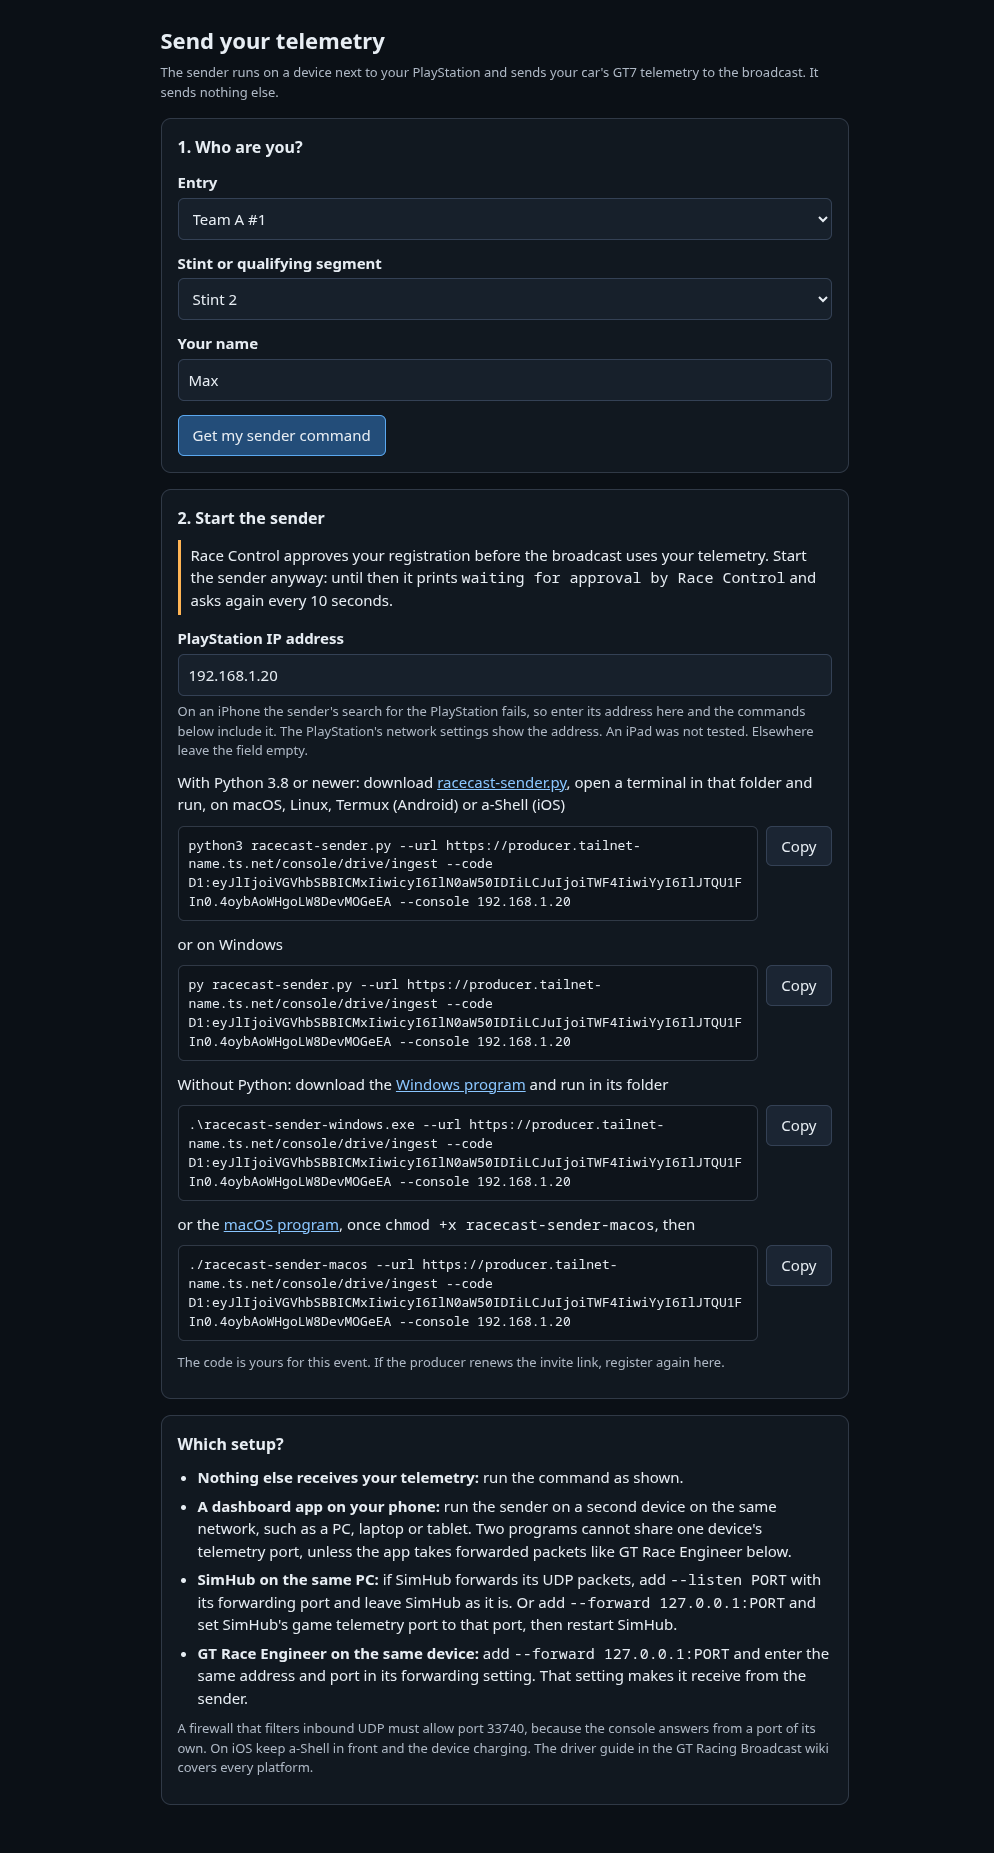
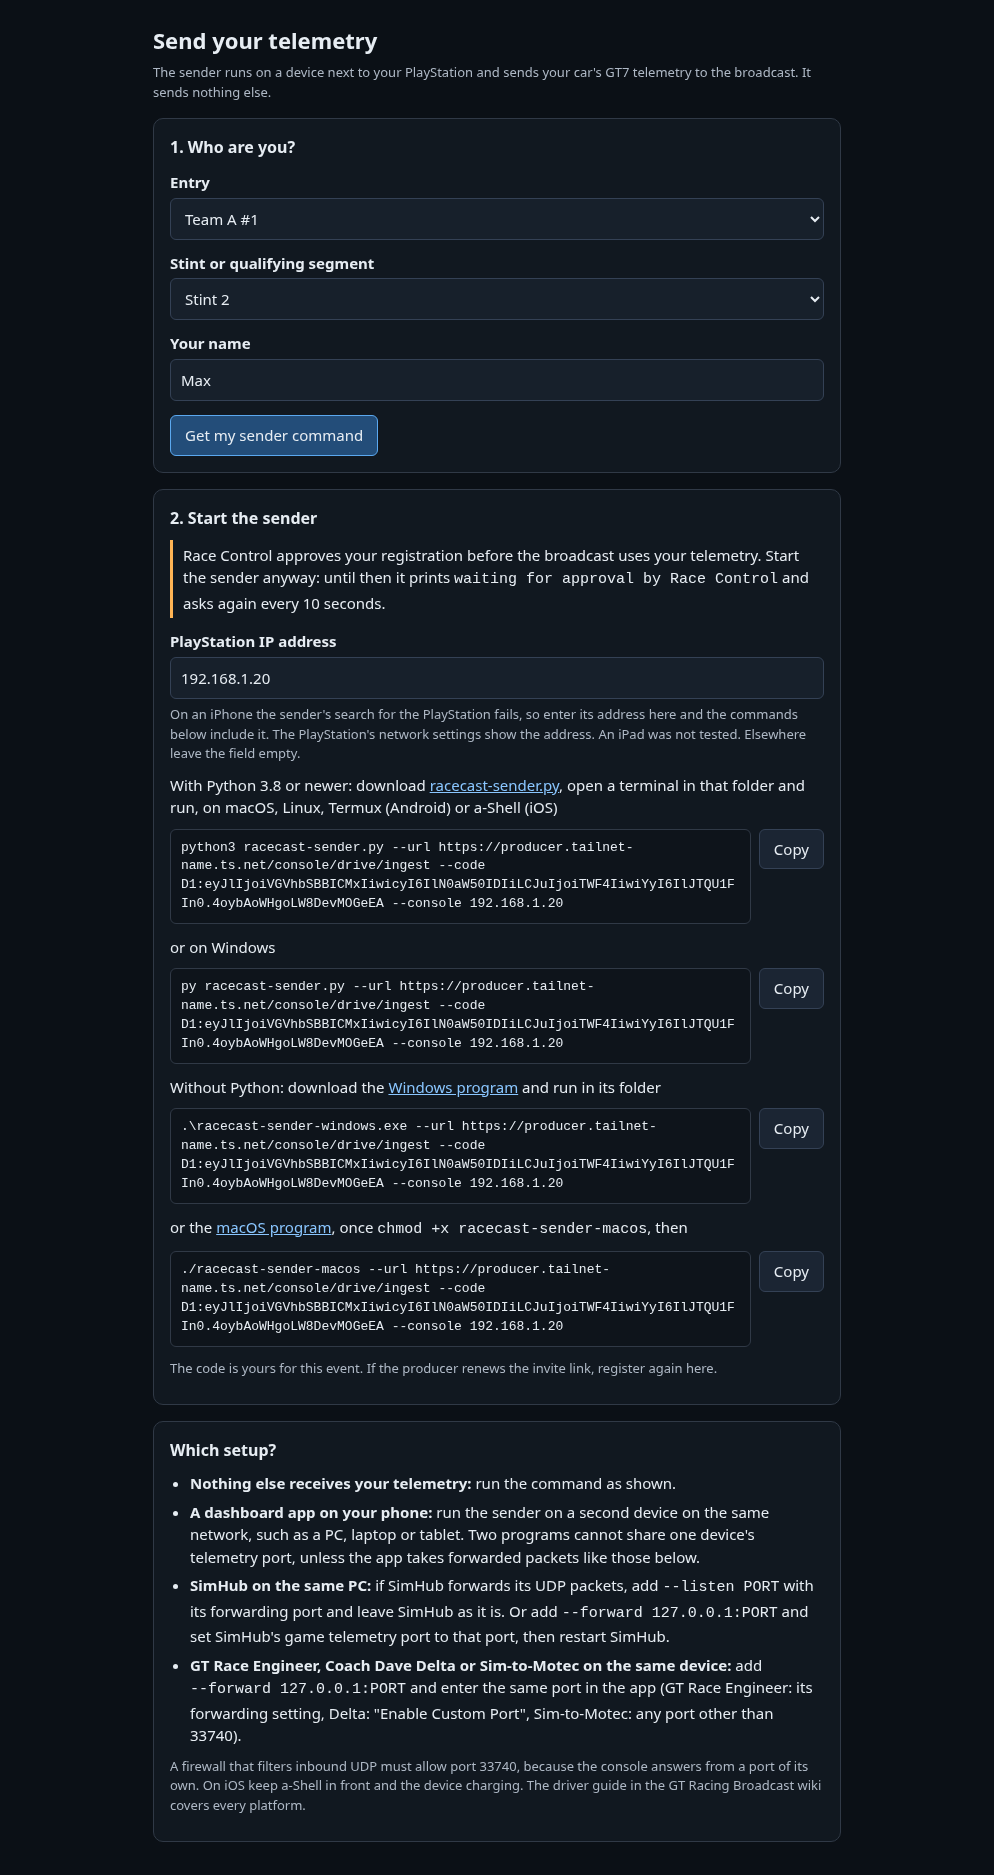
docs(telemetry): cover the common GT7 telemetry apps instead of polling drivers
The probe stage 2 runbook replaces the driver poll with a table of the apps drivers run
next to the sender, and the driver guide, the invite page and the driver deck name the
apps that take forwarded packets on the same device (Coach Dave Delta, Sim-to-Motec).
Heartbeat C (368 bytes) shares the B key and appends to the '~' fields; a test pins
that it decodes whole, and the sender's size comment says 368.

diff --git a/src/docs/slides/driver.html b/src/docs/slides/driver.html
@@ -49,13 +49,13 @@ Note: To get your command, open the invite link the producer shares for the even
 On one device only one program can receive GT7 telemetry. Pick the line that matches what you already run:
 
 - **Nothing else receives it:** run the command as shown, on a PC, laptop, tablet or phone.
-- **A dashboard app on your phone:** run the sender on a **second device** on the same network, unless the app takes forwarded packets like GT Race Engineer.
+- **A dashboard app on your phone:** run the sender on a **second device** on the same network, unless the app takes forwarded packets like those below.
 - **SimHub on the same PC:** add `--listen PORT` with SimHub's forwarding port, or `--forward 127.0.0.1:PORT` with SimHub's game telemetry port moved there and SimHub restarted.
-- **GT Race Engineer on the same device:** add `--forward 127.0.0.1:PORT` and enter the same address and port in its telemetry forwarding.
+- **GT Race Engineer, Coach Dave Delta or Sim-to-Motec on the same device:** add `--forward 127.0.0.1:PORT` and enter the same port in the app.
 
 iPhone: type the PlayStation's IP into the invite page, and the command ends with `--console <PlayStation IP>`. An iPad was not tested. No console found elsewhere? Add `--console <PlayStation IP>`.
 
-Note: GT7 sends telemetry to every device that asks, but on one device only one program can receive it. So pick the line that matches what you already run. If nothing else receives your telemetry, run the command as shown, on a PC, a laptop, a tablet or a phone. If you use a dashboard app on your phone, run the sender on a second device on the same network, because it cannot share the phone with the app. An app that takes forwarded packets, like GT Race Engineer, is the exception. With SimHub on the same PC there are two ways. The sender can read what SimHub forwards, with the listen option and SimHub's forwarding port, and SimHub stays as it is. Or the sender forwards to SimHub, with the forward option and SimHub's game telemetry port moved to that port, and SimHub restarted. GT Race Engineer's forwarding setting, labelled Telemetrie Forwarding in the German app, receives telemetry. So the sender forwards to it with the forward option and the same address and port in the app. The sender finds the PlayStation by itself, except on an iPhone, where its search fails with No route to host. An iPad was not tested. On an iPhone, type the PlayStation's IP address into the invite page right after registering, and the command includes it. If the sender reports elsewhere that no console was found, add the console option with the PlayStation's IP address.
+Note: GT7 sends telemetry to every device that asks, but on one device only one program can receive it. So pick the line that matches what you already run. If nothing else receives your telemetry, run the command as shown, on a PC, a laptop, a tablet or a phone. If you use a dashboard app on your phone, run the sender on a second device on the same network, because it cannot share the phone with the app. An app that takes forwarded packets, like GT Race Engineer, is the exception. With SimHub on the same PC there are two ways. The sender can read what SimHub forwards, with the listen option and SimHub's forwarding port, and SimHub stays as it is. Or the sender forwards to SimHub, with the forward option and SimHub's game telemetry port moved to that port, and SimHub restarted. GT Race Engineer's forwarding setting, labelled Telemetrie Forwarding in the German app, receives telemetry. So the sender forwards to it with the forward option and the same address and port in the app. Coach Dave Delta with its custom port and Sim-to-Motec on a port other than 33740 work the same way. The sender finds the PlayStation by itself, except on an iPhone, where its search fails with No route to host. An iPad was not tested. On an iPhone, type the PlayStation's IP address into the invite page right after registering, and the command includes it. If the sender reports elsewhere that no console was found, add the console option with the PlayStation's IP address.
 </script></section>
 
 <section data-markdown><script type="text/template">

diff --git a/src/console/drive.html b/src/console/drive.html
@@ -26,6 +26,7 @@ input + .dim{margin-top:6px}
 #consoleErr{margin:0 0 10px}
 .note{border-left:3px solid var(--warn);padding:4px 0 4px 10px}
 .cmd{display:flex;gap:8px;align-items:flex-start;margin:6px 0 12px}
+#helpSec code{white-space:nowrap}
 .cmd code{flex:1;min-width:0;display:block;font:13px/1.45 var(--mono);background:#0e141b;border:1px solid var(--edge);border-radius:6px;padding:9px 10px;overflow-wrap:anywhere;white-space:pre-wrap}
 a{color:#8ac6ff}
 ul{margin:0 0 10px;padding-left:20px}
@@ -85,14 +86,15 @@ li{margin-bottom:6px}
       <li><b>Nothing else receives your telemetry:</b> run the command as shown.</li>
       <li><b>A dashboard app on your phone:</b> run the sender on a second device on the same
         network, such as a PC, laptop or tablet. Two programs cannot share one device's
-        telemetry port, unless the app takes forwarded packets like GT Race Engineer below.</li>
+        telemetry port, unless the app takes forwarded packets like those below.</li>
       <li><b>SimHub on the same PC:</b> if SimHub forwards its UDP packets, add
         <code>--listen PORT</code> with its forwarding port and leave SimHub as it is. Or add
         <code>--forward 127.0.0.1:PORT</code> and set SimHub's game telemetry port to that
         port, then restart SimHub.</li>
-      <li><b>GT Race Engineer on the same device:</b> add <code>--forward 127.0.0.1:PORT</code>
-        and enter the same address and port in its forwarding setting. That setting makes
-        it receive from the sender.</li>
+      <li><b>GT Race Engineer, Coach Dave Delta or Sim-to-Motec on the same device:</b> add
+        <code>--forward 127.0.0.1:PORT</code> and enter the same port in the app (GT Race
+        Engineer: its forwarding setting, Delta: "Enable Custom Port", Sim-to-Motec: any
+        port other than 33740).</li>
     </ul>
     <p class="dim">A firewall that filters inbound UDP must allow port 33740, because the
       console answers from a port of its own. On iOS keep a-Shell in front and the device charging.

diff --git a/tests/test_gt7_crypto.py b/tests/test_gt7_crypto.py
@@ -120,6 +120,17 @@ def t_encrypt_round_trips_each_type_like_the_console():
         "a shorter recording pads the extended fields with zeros"
 
 
+def t_a_c_packet_decodes_whole_under_the_b_key():
+    plain = _plain(0x170)
+    iv = 0x0BADF00D
+    nonce = struct.pack("<II", iv ^ gt7.IV_XOR["B"], iv)
+    packet = bytearray(gt7.salsa20_xor(gt7.KEY, nonce, plain))
+    struct.pack_into("<I", packet, 0x40, iv)
+    kind, got = gt7.decrypt_typed(bytes(packet))
+    assert kind == "B", f"heartbeat C (368 bytes) shares the B key, got {kind!r}"
+    assert len(got) == 0x170 and got[0x44:] == plain[0x44:], "all 368 bytes, the '~' fields included, must decode"
+
+
 def t_decrypt_typed_rejects_garbage():
     assert gt7.decrypt_typed(bytes(0x158)) == (None, None)
     assert gt7.decrypt_typed(b"short") == (None, None)

diff --git a/src/relay/racecast-sender.py b/src/relay/racecast-sender.py
@@ -52,7 +52,7 @@ HEARTBEAT_EVERY_S = 10.0
 CONSOLE_PORT = 33739
 RECEIVE_PORT = 33740
 MIN_PACKET = 0x94         # shorter datagrams are not GT7 telemetry
-MAX_PACKET = 512          # the relay refuses longer ones; GT7 sends at most 344 bytes
+MAX_PACKET = 512          # the relay refuses longer ones; GT7 sends at most 368 bytes
 REFUSED_WAIT_S = 60.0     # a refused link or key is retried once a minute
 PENDING_WAIT_S = 10.0     # a registration waiting for Race Control's approval
 KEEPALIVE_S = 5.0         # an empty post while the console is quiet keeps the entry slot

diff --git a/docs/superpowers/plans/2026-11-24-telemetry-probe-stage2-runbook.md b/docs/superpowers/plans/2026-11-24-telemetry-probe-stage2-runbook.md
@@ -47,9 +47,12 @@ once, a second person can type them with `probe-stage2.py mark` on the producer 
 
 ### 3.1 League coordination (maintainer, a week before)
 
-1. Send the driver poll (section 8) and collect the answers for the report.
-2. Pick the test group from the answers: two or three drivers, at least one Android
-   sender device, one driver who can host lobbies.
+1. Ask the volunteers which telemetry app or dashboard they run during races and on
+   which device, and map each answer to a line of the guide's "Which setup" section
+   (section 8 lists the apps it covers).
+2. Pick the test group: two or three drivers, at least one Android sender device, one
+   driver who can host lobbies, and if possible one driver who keeps an app on the
+   same device through `--forward` or `--listen`.
 3. Agree with the league on: a date and about three hours (block A starts 45 minutes before the first lobby, block G ends two hours after it), the lobby settings of blocks B, D and
    F (track, car class, laps or time, qualifying on for block F), who hosts, who joins
    the broadcast PS5 as spectator, and which entries and stints the test drivers register
@@ -349,9 +352,8 @@ questions and the spec.
 
 Lobby test with <n> drivers (<platforms>), league <name>. Results folder attached.
 
-### Driver poll
-<n> answers. Receivers today: ... Second devices: ... Drivers the dashboard reaches
-without new hardware: ...
+### Driver setups
+Per driver: app and device next to the sender, the guide line used, whether it worked.
 
 ### Q1 0x84 in an online lobby (block B)
 <"0x84 per sender" and "0x84 against the relay's order" rows of block B>
@@ -429,34 +431,23 @@ stage 1 tools (`tools/gt7-sim-ps5.py REC --loop` with a sender) for a by-hand ch
 the sender on a real packet stream; the committed scenario uses synthetic data so it
 runs on any machine.
 
-## 8. Driver poll (ready to send)
+## 8. Telemetry apps the guide covers
 
-```
-Driver telemetry: two quick questions
+A poll of one test group says little about the next league, so the guide covers the
+apps drivers commonly run instead (research of 2026-11-24, sources in the PR that added
+this section). GT7 sends to every device that sends a heartbeat, so a sender on a
+second device works next to any of them. On the same device the sender needs an app
+that forwards packets or receives forwarded ones:
 
-We are testing a way to show live race data from your GT7 telemetry on the broadcast.
-A small program (the sender) runs on a device on your home network and sends your car's
-telemetry to the broadcast. Before we test it in a lobby, we would like to know what
-you use today. Answers are voluntary and only used to plan the test.
+| App | Same device as the sender |
+|---|---|
+| SimHub (Windows) | yes: forwards ("Forward UDP packets to") and receives forwarded packets |
+| Coach Dave Delta (Windows, macOS) | yes: receives forwarded packets ("Enable Custom Port") |
+| GT Race Engineer | yes: receives forwarded packets ("Telemetrie Forwarding") |
+| EzioDash (iOS, iPadOS) | listening port documented as experimental, untested with the sender |
+| Sim-to-Motec | yes: any port other than 33740 makes it a passive receiver |
+| gt7dashboard, AI Race Engineer, Sim Dashboard, Telemetry Racing, Victory Dash, D-BOX, GT7Proxy for SimTools | no forward in or out documented for GT7: second device |
 
-1. Telemetry today: do you use a telemetry app or dashboard with GT7?
-   - SimHub (on which device?)
-   - GT Race Engineer (on which device?)
-   - A dashboard app on a phone or tablet (which app, which device?)
-   - Something else (what?)
-   - None
-   If you use one: can it forward the telemetry to another IP address and port?
-   (yes / no / don't know)
-
-2. A second device: which device on the same network as your PlayStation could run the
-   sender during a race? It runs next to the PlayStation for the whole race.
-   - Windows PC or laptop
-   - Mac
-   - Linux PC or Raspberry Pi
-   - Android phone or tablet
-   - iPhone or iPad
-   - None
-
-A dashboard app on your phone and the sender cannot share that phone, so if your phone
-runs a dashboard during races, please name another device for question 2.
-```
+Packet types: heartbeat `C` (368 bytes, 2026) has the key of `B` and appends 24 bytes to
+`~`. The sender and the relay decode it as type `B` and read every field, so a sender
+behind a SimHub that requests `C` works unchanged.

diff --git a/src/docs/wiki/Driver-Telemetry.md b/src/docs/wiki/Driver-Telemetry.md
@@ -71,9 +71,10 @@ program can receive it. Pick the line that matches what you already run:
 
 - **Nothing else receives your telemetry:** run the command as shown, on a PC, laptop,
   tablet or phone.
-- **A dashboard app on your phone:** run the sender on a second device on the same
-  network. It cannot share the phone with the app, unless the app takes forwarded
-  packets as GT Race Engineer does below.
+- **A dashboard app on your phone, or any app not listed below:** run the sender on a
+  second device on the same network. GT7 sends to both devices. gt7dashboard, AI Race
+  Engineer, Sim Dashboard, Telemetry Racing, Victory Dash, D-BOX and GT7Proxy document
+  no way to pass GT7 packets on or take them in, so they need this setup.
 - **SimHub on the same PC:** SimHub's GT7 game configuration has a **Game telemetry UDP
   port** and **Forward UDP packets to**, and no heartbeat switch. Two setups work:
   - The sender reads what SimHub forwards: add `--listen PORT` with the port SimHub
@@ -86,6 +87,13 @@ program can receive it. Pick the line that matches what you already run:
   Forwarding" in the German app, makes it receive forwarded telemetry. Its console entry
   then reads "FORWARDED". It does not forward. Add `--forward 127.0.0.1:PORT` to the
   sender and enter the same address and port in GT Race Engineer.
+- **Coach Dave Delta on the same PC:** turn on "Enable Custom Port" in Delta and enter a
+  port, then add `--forward 127.0.0.1:PORT` with that port to the sender.
+- **Sim-to-Motec on the same PC:** start it on a port other than 33740, which makes it
+  wait for forwarded packets, and add `--forward 127.0.0.1:PORT` to the sender.
+- **EzioDash on the same iPhone or iPad:** the app documents an experimental listening
+  port for forwarded packets. This was not tested with the sender, so prefer a second
+  device.
 
 The sender finds the PlayStation by itself, except on an iPhone. There its search
 broadcast to 255.255.255.255 fails with "No route to host". An iPad was not tested.
